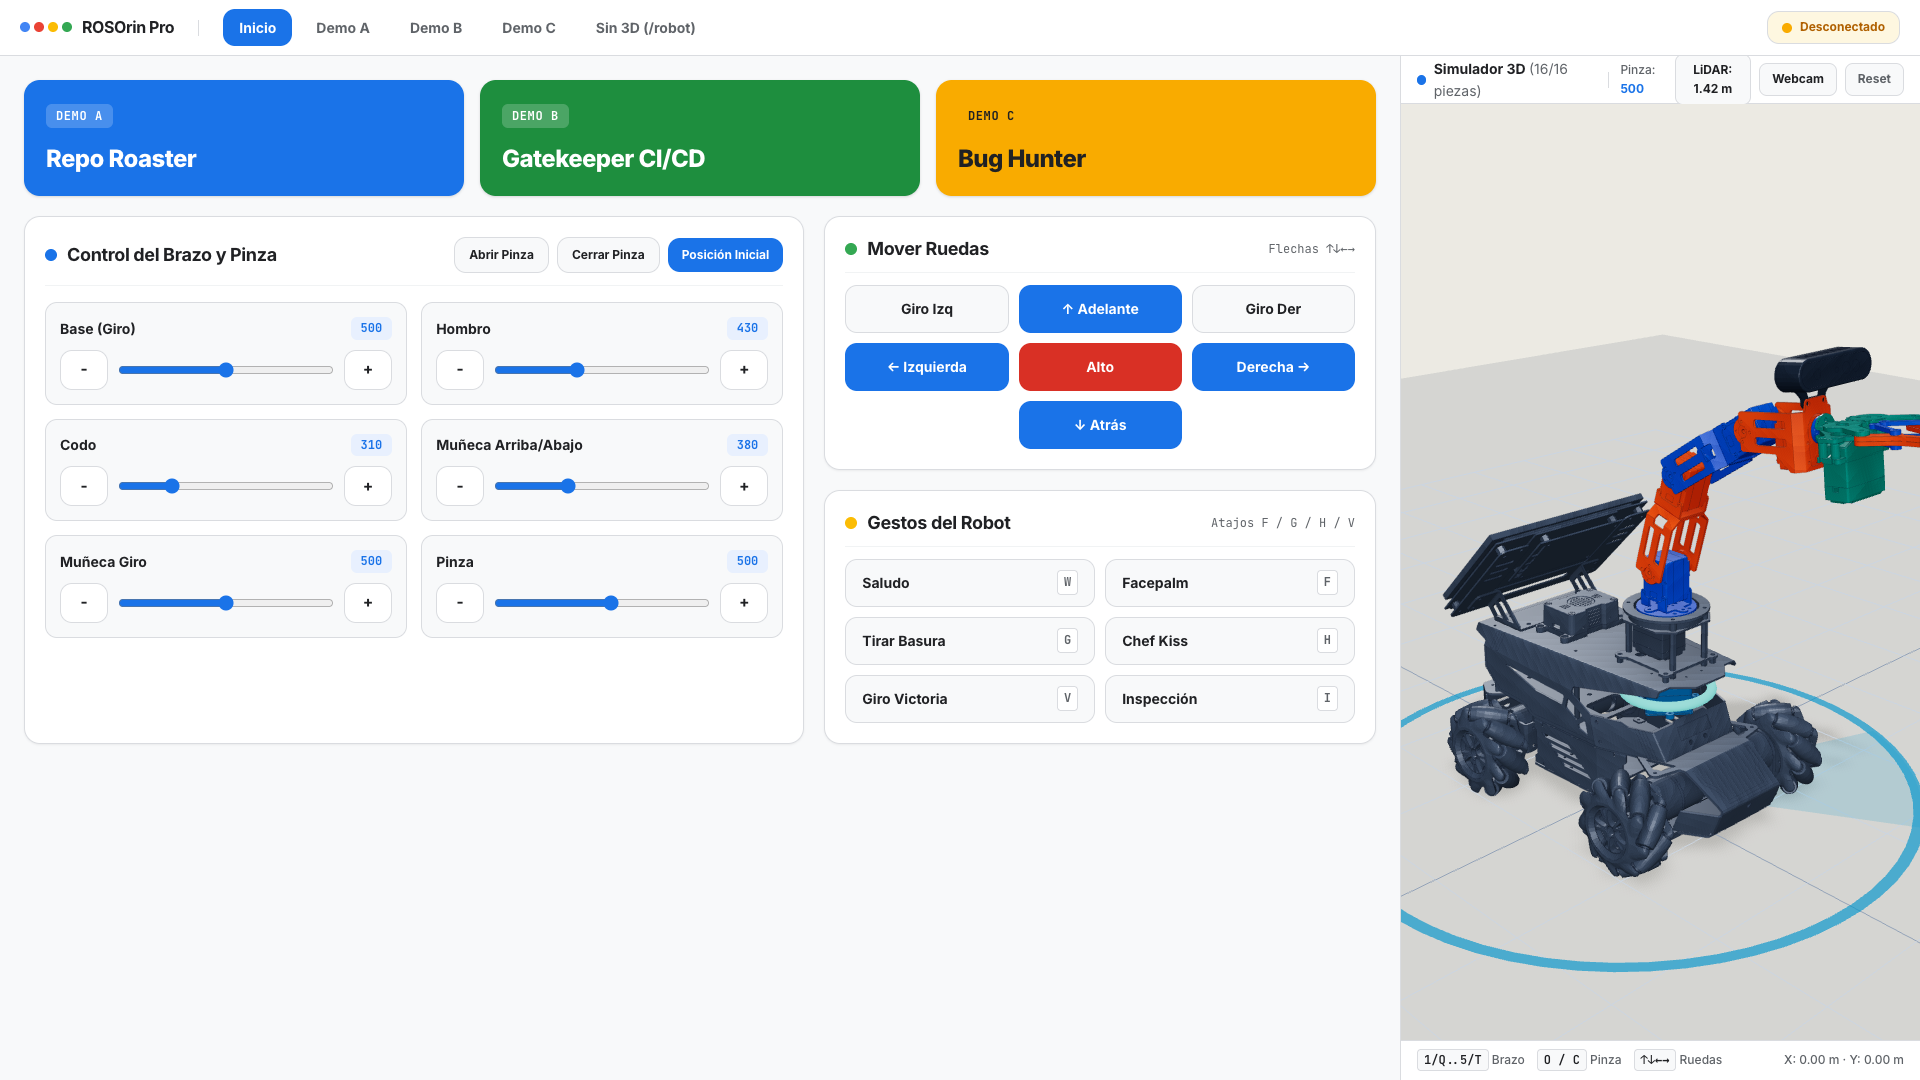
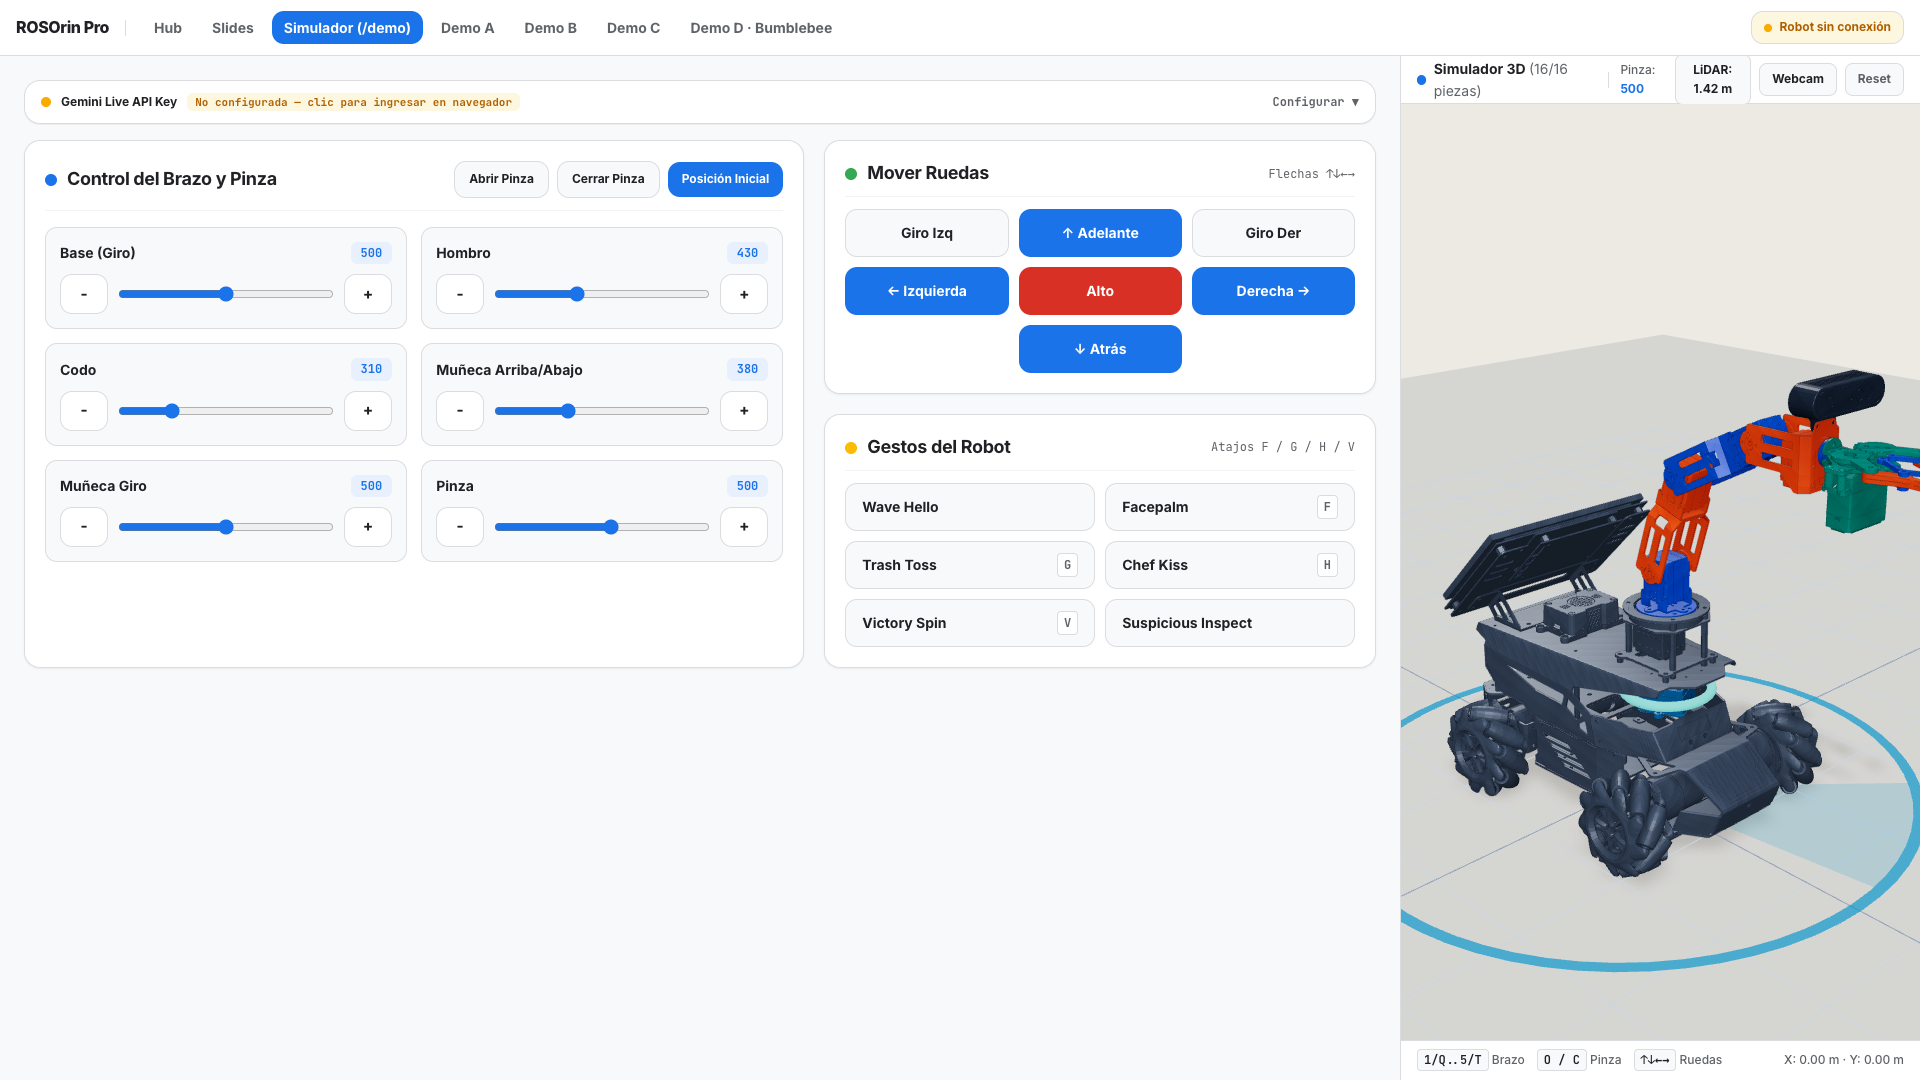
fix: new UI screenshots in slides, deck title De Web a Physical AI, restore Reset label
- Retake hub-simulator, robot-control and robot-face from the current build
  (gesture names in English, no demo buttons, new bridge pill)
- Deck <title> and cover now read "De Web a Physical AI"
- 3D viewer button back to its original "Reset" label

diff --git a/slides/index.html b/slides/index.html
@@ -3,7 +3,7 @@
 <head>
 <meta charset="UTF-8">
 <meta name="viewport" content="width=device-width, initial-scale=1.0">
-<title>Embodied AI con Gemini Live y JS — Adrián Catalán</title>
+<title>De Web a Physical AI — Adrián Catalán</title>
 <link rel="preconnect" href="https://fonts.googleapis.com">
 <link rel="preconnect" href="https://fonts.gstatic.com" crossorigin>
 <link href="https://fonts.googleapis.com/css2?family=IBM+Plex+Sans:ital,wght@0,400;0,500;0,600;0,700;1,400&family=JetBrains+Mono:wght@400;500;600;700&family=Oswald:wght@500;600;700&display=swap" rel="stylesheet">
@@ -309,8 +309,8 @@
       <div class="eyebrow">JSCONF MX</div>
       <div style="margin: auto 0;">
         <h1 class="headline-xl" style="font-size: 162px; max-width: 1680px;">
-          EMBODIED AI CON<br>
-          <span class="accent-orange">GEMINI LIVE</span> Y JS
+          DE WEB A<br>
+          <span class="accent-orange">PHYSICAL AI</span>
         </h1>
       </div>
       <div style="display: flex; align-items: center; justify-content: space-between; border-top: 2px solid var(--dark-border); padding-top: 32px;">

diff --git a/web/public/slides/index.html b/web/public/slides/index.html
@@ -3,7 +3,7 @@
 <head>
 <meta charset="UTF-8">
 <meta name="viewport" content="width=device-width, initial-scale=1.0">
-<title>Embodied AI con Gemini Live y JS — Adrián Catalán</title>
+<title>De Web a Physical AI — Adrián Catalán</title>
 <link rel="preconnect" href="https://fonts.googleapis.com">
 <link rel="preconnect" href="https://fonts.gstatic.com" crossorigin>
 <link href="https://fonts.googleapis.com/css2?family=IBM+Plex+Sans:ital,wght@0,400;0,500;0,600;0,700;1,400&family=JetBrains+Mono:wght@400;500;600;700&family=Oswald:wght@500;600;700&display=swap" rel="stylesheet">
@@ -309,8 +309,8 @@
       <div class="eyebrow">JSCONF MX</div>
       <div style="margin: auto 0;">
         <h1 class="headline-xl" style="font-size: 162px; max-width: 1680px;">
-          EMBODIED AI CON<br>
-          <span class="accent-orange">GEMINI LIVE</span> Y JS
+          DE WEB A<br>
+          <span class="accent-orange">PHYSICAL AI</span>
         </h1>
       </div>
       <div style="display: flex; align-items: center; justify-content: space-between; border-top: 2px solid var(--dark-border); padding-top: 32px;">

diff --git a/web/src/components/Rosorin3DViewer.tsx b/web/src/components/Rosorin3DViewer.tsx
@@ -950,7 +950,7 @@ export function Rosorin3DViewer({
               onClick={onResetScene}
               className="rounded-lg border border-[#DADCE0] bg-[#F8F9FA] px-3 py-1.5 text-xs font-bold text-[#5F6368] hover:border-[#1A73E8] hover:text-[#1A73E8]"
             >
-              Reiniciar
+              Reset
             </button>
           )}
         </div>
